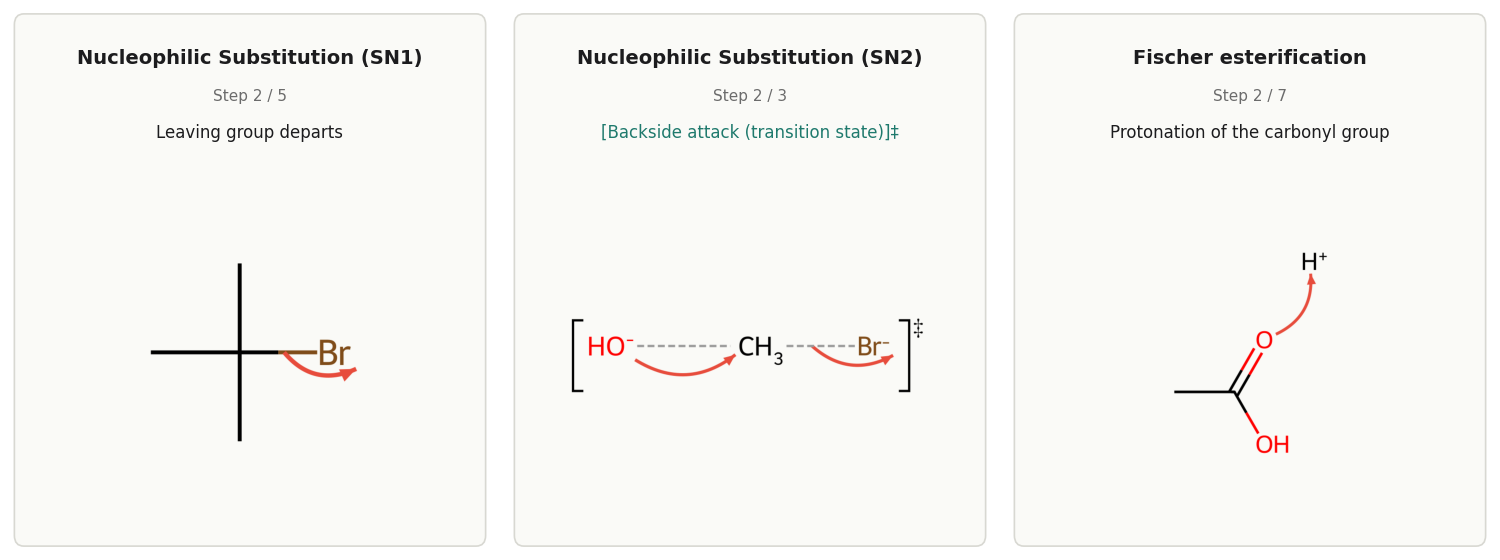
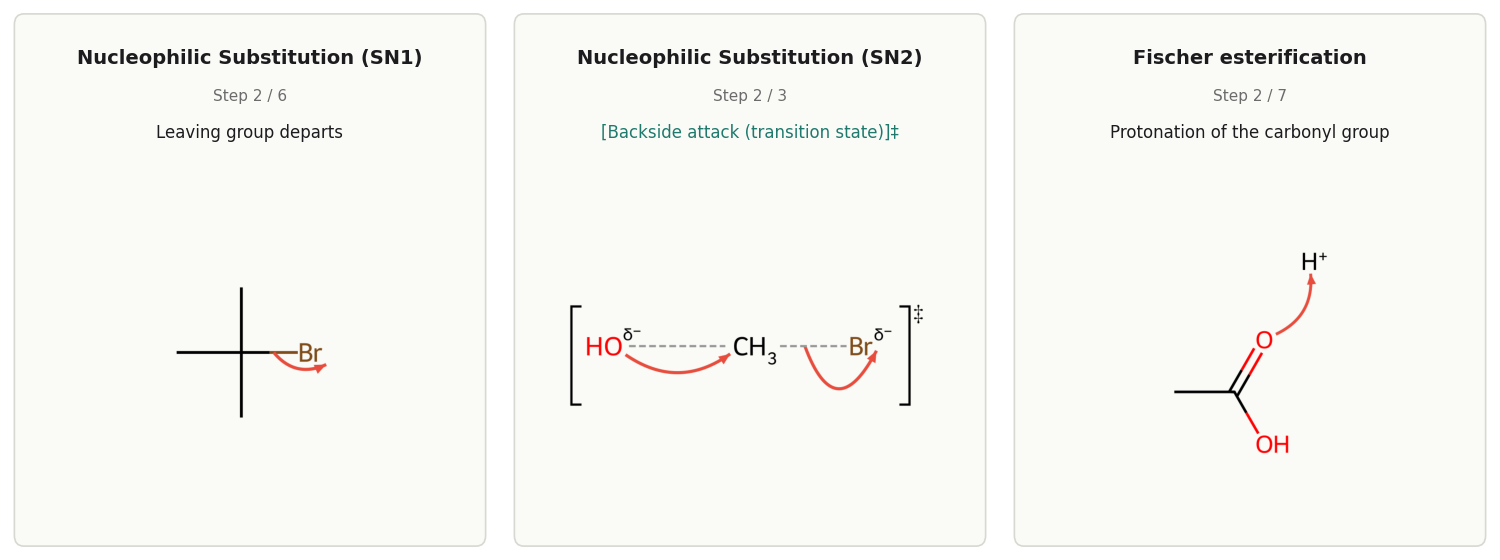
mechanismus: SN1 mit Wasser/Alkohol über das Oxonium-Ion, Produkte mit H⁺ (R4)
Neutrale Nucleophile: sechs Stationen statt fünf — Angriff → „Oxonium ion“
(R–OH₂⁺ bzw. R–O⁺(H)R′ + X⁻, Pfeil O–H → O, abgehendes H als Atom H_LEAVING = 9)
→ „Products“ (ROH/ROR′ + X⁻ + H⁺). Anionen behalten fünf Schritte. Buchführungs-
Ausnahme „after deprotonation“ gestrichen; neuer Test: Gesamtladung bleibt je
Schrittpaar erhalten (fing 0 → −1). Fischer-Edukt-H⁺ trägt jetzt seine Map 7.
README-Bild wave1-mechanisms (SN1 2/6, SN2-ÜZ mit δ⁻) neu gesegnet und gesichtet.

Claude-Session: https://claude.ai/code/session_01RTLSKcGaBtncZjreEXAbT8

diff --git a/chemdraw_tool/mechanism_substrate.py b/chemdraw_tool/mechanism_substrate.py
@@ -460,7 +460,15 @@ def _sn1(frags: list[_Frag]) -> list[MechanismStep]:
     cation_parts = _cut(sub_m, C, X, {C: +1, X: -1})
     cation, halide = _frag_with(cation_parts, C), _frag_with(cation_parts, X)
     neutral = nuc_m.GetAtomWithIdx(_idx(nuc_m, NU)).GetFormalCharge() == 0
-    product = _react("[C+:1].[*:3]>>[C+0:1]-[*+0:3]", [Chem.Mol(cation), nuc_m])[0]
+    oxonium = None
+    if neutral:
+        # Wasser/Alkohol: der Angriff gibt das Oxonium-Ion, erst die Deprotonierung das Produkt
+        # (Clayden Kap. 15; OpenStax 11.4) — Sichtung 05.11.2026 (R4). Das abgehende H ist ein
+        # eigenes Atom, damit der Pfeil der Deprotonierung eine Bindung als Quelle hat.
+        oxonium = _explicit_h(_react("[C+:1].[O:3]>>[C+0:1]-[O+:3]", [Chem.Mol(cation), nuc_m])[0], NU, H_LEAVING)
+        product = _drop_h(oxonium, H_LEAVING, NU)
+    else:
+        product = _react("[C+:1].[*:3]>>[C+0:1]-[*+0:3]", [Chem.Mol(cation), nuc_m])[0]
     for atom in product.GetAtoms():
         if atom.GetAtomMapNum() == C:
             atom.SetChiralTag(Chem.ChiralType.CHI_UNSPECIFIED)
@@ -469,11 +477,36 @@ def _sn1(frags: list[_Frag]) -> list[MechanismStep]:
         for idx, _ in Chem.FindMolChiralCenters(unmapped(product), includeUnassigned=True,
                                              useLegacyImplementation=False))
 
-    label = "Product (after deprotonation)" if neutral else "Product"
+    label = "Products" if neutral else "Product"
     if stereogenic:
         label += ", racemic"
     subs = _neighbours(sub_m, C, exclude=(X,))
     centre = {C: (0.0, 0.0), **_fan_centre(sub_m, subs, _SN1, _SN1_RING)}
+    product_anchor = {**centre, **_tail(product, NU, (1.0, 0.0), 1.0, exclude=(C,))}
+    if neutral:
+        proton = Chem.MolFromSmiles(f"[H+:{H_LEAVING}]")
+        # Oxonium: R′ (Alkohol) nach rechts oben, das abgehende H nach rechts unten — der Pfeil
+        # O–H → O hat so eine freie Seite und kreuzt die neue C–O-Bindung nicht
+        ox_anchor = {**centre, **_tail(oxonium, NU, (1.0, 0.0), 1.0, exclude=(C, H_LEAVING), tilt=-60.0),
+                     H_LEAVING: (1.5, -0.866)}
+        last = [
+            MechanismStep(
+                label="Oxonium ion", molecules=[_smi(oxonium), _smi(halide)],
+                arrows=[CurvedArrow(source=(H_LEAVING, "bond_to", NU), target=(NU, "atom"), style="full")],
+                anchors=[ox_anchor, {}],
+            ),
+            MechanismStep(
+                label=label, molecules=[_smi(product), _smi(halide), _smi(proton)], arrows=[],
+                anchors=[product_anchor, {}, {}],
+            ),
+        ]
+    else:
+        last = [
+            MechanismStep(
+                label=label, molecules=[_smi(product), _smi(halide)], arrows=[],
+                anchors=[product_anchor, {}],
+            ),
+        ]
     return [
         MechanismStep(
             label="Reactants", molecules=[_smi(sub_m), _smi(nuc_m)], arrows=[],
@@ -497,10 +530,7 @@ def _sn1(frags: list[_Frag]) -> list[MechanismStep]:
             # eine waagrechte Bindung nach rechts lief durch das „⁻“ von C⁻≡N (Kontaktbogen 05.11.)
             anchors=[centre, _tail(nuc_m, NU, (2.6, 0.0), 1.0, tilt=40.0)],
         ),
-        MechanismStep(
-            label=label, molecules=[_smi(product), _smi(halide)], arrows=[],
-            anchors=[{**centre, **_tail(product, NU, (1.0, 0.0), 1.0, exclude=(C,))}, {}],
-        ),
+        *last,
     ]
 
 
@@ -576,7 +606,7 @@ def _fischer(frags: list[_Frag]) -> list[MechanismStep]:
                     **_tail(ester, O_ALCOHOL, _ray(-60), 1.0, exclude=(C_ACID,))}
     return [
         MechanismStep(
-            label="Reactants", molecules=[_smi(acid_m), _smi(alc_m), "[H+]"], arrows=[],
+            label="Reactants", molecules=[_smi(acid_m), _smi(alc_m), _smi(proton)], arrows=[],
             anchors=[trigonal, {}, {}],
         ),
         MechanismStep(
@@ -624,6 +654,18 @@ def _fischer(frags: list[_Frag]) -> list[MechanismStep]:
 
 # Das H, das im Protonentransfer vom Alkohol-O zum OH wandert (als Atom gezeichnet)
 H_MOVING = 8
+# SN1 mit Wasser/Alkohol: das H, das das Oxonium-Ion als H⁺ verlässt (als Atom gezeichnet)
+H_LEAVING = 9
+
+
+def _drop_h(mol: Chem.Mol, h_map: int, heavy_map: int) -> Chem.Mol:
+    """Das gezeichnete H geht als H⁺: Atom weg, sein Partner wird neutral, übrige H bleiben."""
+    rw = Chem.RWMol(mol)
+    heavy = rw.GetAtomWithIdx(_idx(rw, heavy_map))
+    n_h = heavy.GetNumExplicitHs() + heavy.GetNumImplicitHs()
+    rw.RemoveAtom(_idx(rw, h_map))
+    _set_hs(rw.GetAtomWithIdx(_idx(rw, heavy_map)), n_h, 0)
+    return _sanitize(rw)
 
 
 def _explicit_h(mol: Chem.Mol, heavy_map: int, h_map: int) -> Chem.Mol:

diff --git a/tests/test_mechanism_bookkeeping.py b/tests/test_mechanism_bookkeeping.py
@@ -14,13 +14,14 @@ Wasserstoffe zählen am schweren Partner (implizit oder als gemapptes Atom gezei
 H, das in einem Schritt als Atom und im nächsten implizit vorliegt, dieselbe Buchung ergibt.
 
 Bekannte, bewusst zugelassene Vereinfachungen (jede steht hier mit Namen, keine stillschweigend):
-- SN1-Schlussschritt „after deprotonation" fasst Angriff und Deprotonierung zusammen — das
-  Nucleophil verliert dort ein H ohne eigenen Pfeil.
 - Fischer „Protonation of the carbonyl group": ein Pfeil (O-Paar → H⁺) ergibt C=O⁺H; gezeichnet
   wird die gleichwertige Grenzformel C⁺(OH)₂ (Design-Notiz (b)), also zusätzlich C=O → C–O ohne
   Resonanzpfeil. Wer die C=O⁺H-Form zeichnet, streicht diese Ausnahme.
+(Die frühere SN1-Ausnahme „after deprotonation" ist seit Runde 3 gestrichen: neutrale Nucleophile
+gehen über das Oxonium-Ion mit eigenem Deprotonierungspfeil, Sichtung 05.11.2026, R4.)
 Nicht geprüft wird die Lage der Formalladung (Grenzformel C⁺(OH)₂ ist erlaubt); dafür steht
-tests/test_mechanism_substrate.py.
+tests/test_mechanism_substrate.py. Geprüft wird die Summe: die Gesamtladung bleibt von Schritt zu
+Schritt gleich (Übergangszustände ausgenommen — dort steht δ⁻ statt Formalladung).
 """
 
 from __future__ import annotations
@@ -143,9 +144,6 @@ def check_bookkeeping(steps) -> None:
             # Fischer: Grenzformel C⁺(OH)₂ statt C=O⁺H — die C=O-Bindung sinkt ohne Resonanzpfeil
             c_o = next(k for k in actual if isinstance(k, frozenset) and actual[k] == -1.0)
             assert actual.pop(c_o) == -1.0
-        if "after deprotonation" in after.label:
-            # SN1: Angriff + Deprotonierung in einem Bild; das Nucleophil gibt ein H ab
-            assert actual.pop(("H", NU), None) == -1.0, f"{after.label}: Deprotonierung ohne H-Verlust am Nucleophil"
         assert actual == expected, (
             f"{step.label} → {after.label}: Pfeile sagen {expected}, Moleküle zeigen {actual}")
 
@@ -153,6 +151,35 @@ def check_bookkeeping(steps) -> None:
 @pytest.mark.parametrize("cid, rt, subs, _cip", MATRIX, ids=[m[0] for m in MATRIX])
 def test_pfeile_und_bindungsaenderungen_stimmen_ueberein(cid, rt, subs, _cip):
     check_bookkeeping(build_steps(rt, subs))
+
+
+def _ladungen(step) -> tuple[dict[int, int], dict[int, int]]:
+    """(schwere Atome, gezeichnete H-Atome): Map-ID → Formalladung."""
+    heavy, hs = {}, {}
+    for mol in _mols(step):
+        for a in mol.GetAtoms():
+            assert a.GetAtomMapNum(), f"{step.label}: ungemapptes Atom {a.GetSymbol()}"
+            (hs if a.GetAtomicNum() == 1 else heavy)[a.GetAtomMapNum()] = a.GetFormalCharge()
+    return heavy, hs
+
+
+@pytest.mark.parametrize("cid, rt, subs, _cip", MATRIX, ids=[m[0] for m in MATRIX])
+def test_gesamtladung_bleibt_erhalten(cid, rt, subs, _cip):
+    """Sichtung 05.11.2026 (R4): SN1 mit Wasser endete bei ROH + X⁻ — Ladung 0 → −1, das H⁺ fehlte.
+
+    Verglichen wird je Schrittpaar die Ladungssumme der schweren Atome, die in beiden gezeichnet
+    sind (SN1 zeigt das Nucleophil erst beim Angriff), plus aller gezeichneten H-Atome: ein H⁺, das
+    im nächsten Schritt implizit am Partner sitzt, bringt seine Ladung dorthin mit. Fehlt das H⁺
+    im Produkt, bleibt die Ladung des Partners ohne Gegenstück. Übergangszustände ausgenommen:
+    dort steht δ⁻ statt Formalladung.
+    """
+    steps = [s for s in build_steps(rt, subs) if not s.is_transition_state]
+    for before, after in zip(steps, steps[1:]):
+        (h0, p0), (h1, p1) = _ladungen(before), _ladungen(after)
+        common = h0.keys() & h1.keys()
+        s0 = sum(h0[m] for m in common) + sum(p0.values())
+        s1 = sum(h1[m] for m in common) + sum(p1.values())
+        assert s0 == s1, f"{cid}: {before.label} ({s0:+d}) → {after.label} ({s1:+d})"
 
 
 def test_falscher_pfeil_faellt_auf():

diff --git a/tests/test_mechanism_substrate.py b/tests/test_mechanism_substrate.py
@@ -8,7 +8,8 @@ import pytest
 from rdkit import Chem
 from rdkit.Chem import rdCIPLabeler
 
-from chemdraw_tool.mechanism_substrate import UnsupportedSubstrates, build_steps
+from chemdraw_tool.mechanism import CurvedArrow
+from chemdraw_tool.mechanism_substrate import NU, UnsupportedSubstrates, build_steps
 from tests.mechanism_matrix import MATRIX
 
 
@@ -104,12 +105,34 @@ def test_sn2_tertiaer_verweist_auf_sn1():
 
 
 def test_sn1_tert_butylchlorid_wasser():
+    """Neutrales Nucleophil: Angriff gibt das Oxonium-Ion, erst die Deprotonierung das Produkt
+    (Clayden Kap. 15; OpenStax 11.4) — sechs Stationen, Sichtung 05.11.2026 (R4)."""
+    from chemdraw_tool.mechanism_substrate import H_LEAVING
+
     steps = build_steps("sn1", ["CC(C)(C)Cl", "O"])
-    assert len(steps) == 5
+    assert [s.label for s in steps] == [
+        "Reactants", "Leaving group departs", "Carbocation (intermediate)", "Nucleophilic attack",
+        "Oxonium ion", "Products",
+    ]
     assert _canon("C[C+](C)C") in [_plain(s) for s in steps[2].molecules]
     assert _canon("[Cl-]") in [_plain(s) for s in steps[2].molecules]
-    assert _canon("CC(C)(C)O") in [_plain(s) for s in steps[-1].molecules]
+    assert sorted(_plain(s) for s in steps[4].molecules) == sorted([_canon("CC(C)(C)[OH2+]"), _canon("[Cl-]")])
+    assert steps[4].arrows == [CurvedArrow(source=(H_LEAVING, "bond_to", NU), target=(NU, "atom"), style="full")]
+    assert sorted(_plain(s) for s in steps[-1].molecules) == sorted(
+        [_canon("CC(C)(C)O"), _canon("[Cl-]"), "[H+]"])
     _arrows_point_at_drawn_atoms(steps)
+
+
+def test_sn1_alkohol_gibt_das_alkyloxonium_ion():
+    steps = build_steps("sn1", ["CC(C)(C)Br", "CO"])
+    assert len(steps) == 6
+    assert _canon("C[OH+]C(C)(C)C") in [_plain(s) for s in steps[4].molecules]
+    assert _canon("COC(C)(C)C") in [_plain(s) for s in steps[-1].molecules]
+
+
+def test_sn1_anion_behaelt_fuenf_schritte():
+    steps = build_steps("sn1", ["CC(C)(C)Cl", "[Na+].[N-]=[N+]=[N-]"])
+    assert [s.label for s in steps][3:] == ["Nucleophilic attack", "Product"]
 
 
 def test_sn1_mit_anion_und_alkohol():
@@ -236,7 +259,7 @@ def test_fischer_grenze_mit_grund(smiles, grund):
 
 @pytest.mark.parametrize("rt, smiles, n", [
     ("sn2", ["CBr", "[OH-]"], 3),
-    ("sn1", ["CC(C)(C)Br", "O"], 5),
+    ("sn1", ["CC(C)(C)Br", "O"], 6),
     ("fischer_ester", ["CC(=O)O", "CO"], 7),
 ])
 def test_lehrbuchbeispiele_laufen_ueber_den_substratweg(rt, smiles, n):

diff --git a/tests/test_server_mechanism.py b/tests/test_server_mechanism.py
@@ -162,7 +162,7 @@ def test_title_names_the_users_substances(monkeypatch):
 
 @pytest.mark.parametrize("reaction_type, substrates, n", [
     ("sn2", ["C[C@@H](Br)CC", "[C-]#N"], 3),
-    ("sn1", ["CC(C)(C)Cl", "O"], 5),
+    ("sn1", ["CC(C)(C)Cl", "O"], 6),
     ("fischer_ester", ["CCC(=O)O", "CCO"], 7),
 ])
 def test_three_families_draw_real_substrates(reaction_type, substrates, n):
